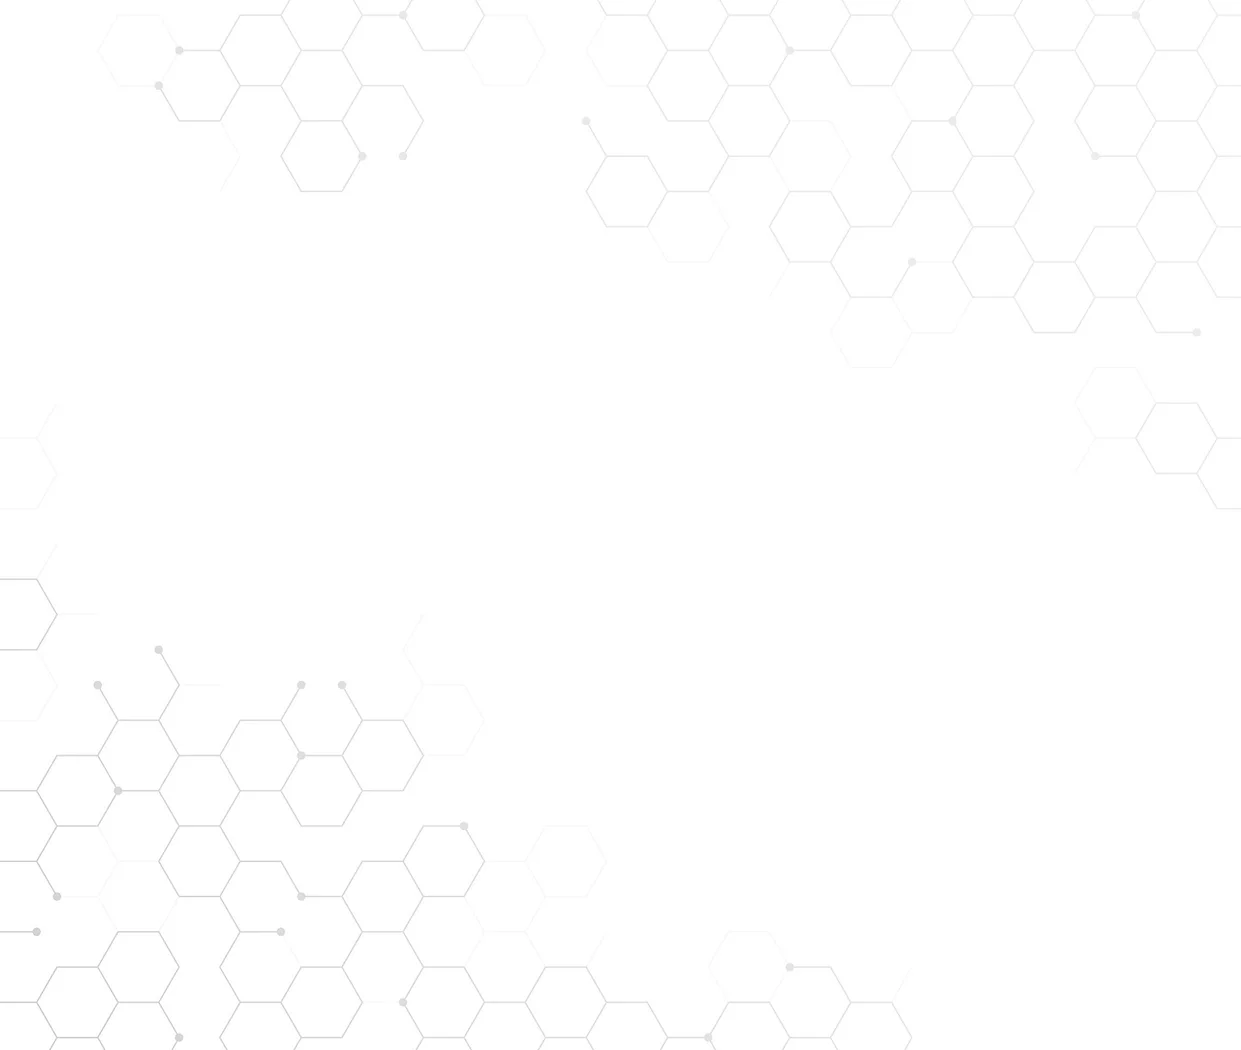
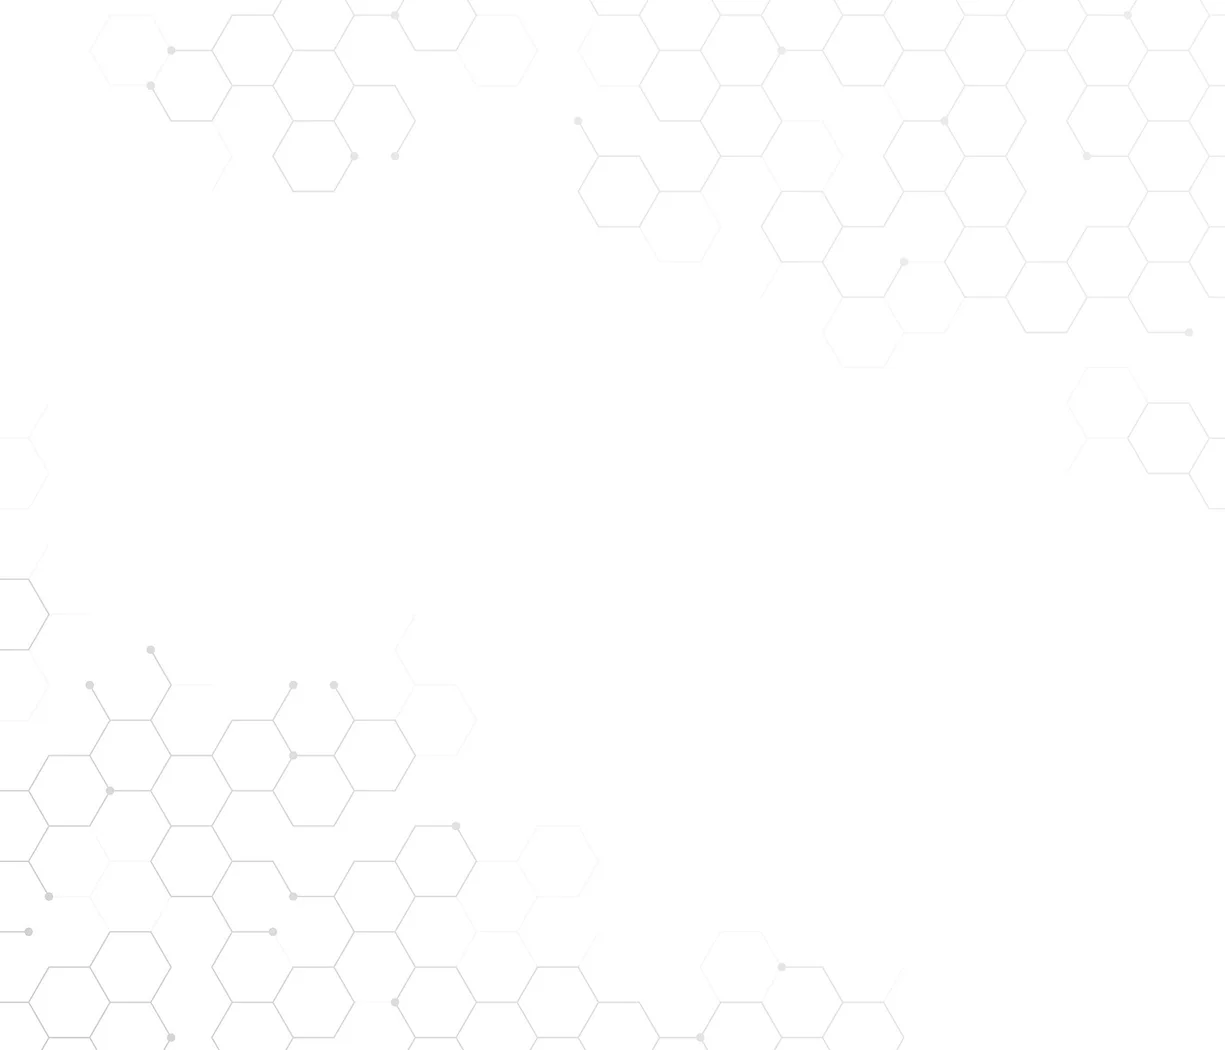
chore: initial home hero section styles

Changed region(s): [[0.1241, 0.9752, 0.1551, 1.0], [0.062, 0.64, 0.0931, 0.6705]]

diff --git a/src/Components/Home/Home.module.scss b/src/Components/Home/Home.module.scss
@@ -1,3 +1,44 @@
-.homePage {
-  
+.homePage {}
+
+.backgroundImage {
+  width: 100%;
+  height: 970px;
+  position: absolute;
+  left: 0;
+  top: 109px;
+  z-index: -1;
+  border: solid red;
+}
+
+.backgroundImage>img {
+  object-fit: contain;
+  height: 50%;
+}
+
+.backgroundImage .top {
+  position: absolute;
+  right: 0;
+  top: 0;
+  object-position: 100% 0;
+}
+
+.backgroundImage .bottom {
+  position: absolute;
+  left: 0;
+  bottom: 80px;
+  object-position: -20% 0;
+  scale: 1 1.1;
+}
+
+.backgroundImage::before {
+  content: '';
+  position: absolute;
+  bottom: 0;
+  left: 0;
+  width: 100%;
+  height: 380px;
+  background: linear-gradient(180deg,
+      rgba(0, 0, 0, 0) 0%,
+      #000000 100%);
+  z-index: 1;
 }

diff --git a/src/Components/Home/Home.jsx b/src/Components/Home/Home.jsx
@@ -1,8 +1,20 @@
-import s from "./Home.module.scss"
+import homeBgBottom from "../../Assets/home-bg-bottom.png";
+import homeBgTop from "../../Assets/home-bg-top.png";
+import s from "./Home.module.scss";
+import HomeHeroSection from "./HomeHeroSection/HomeHeroSection";
 
 const Home = () => {
   return (
-    <main className={s.homePage}>Home</main>
-  )
-}
-export default Home
+    <main className={s.homePage}>
+      <div className={s.backgroundImage}>
+        <img src={homeBgTop} className={s.top} alt="" />
+        <img src={homeBgBottom} className={s.bottom} alt="" />
+      </div>
+
+      <div className="container">
+        <HomeHeroSection />
+      </div>
+    </main>
+  );
+};
+export default Home;

diff --git a/src/Components/Header/MobileNav/MobileNav.module.scss b/src/Components/Header/MobileNav/MobileNav.module.scss
@@ -2,6 +2,7 @@
 
 .nav {
   margin-right: 170px;
+  transition: opacity 0, top 0;
 }
 
 @media (max-width: 1900px) {
@@ -26,10 +27,9 @@
     background-color: var(--white);
     padding-top: 140px;
     opacity: 0;
-    transition: opacity .3s, top 1s;
+    transition: opacity .3s .1s, top 1s;
 
     &.active {
-      transition: opacity .6s, top 1s;
       top: 0;
       opacity: 1;
     }

diff --git a/src/Components/Home/HomeHeroSection/HomeHeroSection.module.scss b/src/Components/Home/HomeHeroSection/HomeHeroSection.module.scss
@@ -1,0 +1,22 @@
+@import "src/Styles/mixins.scss";
+
+.heroSection {
+  width: 980px;
+  margin: 0 auto;
+  text-align: center;
+}
+
+.heroSection>h1 {
+  font-size: 3rem;
+  font-weight: 400;
+  line-height: 1.5em;
+  letter-spacing: .08em;
+  margin-bottom: 16px;
+}
+
+.heroSection>h2 {
+  font-size: 1.5rem;
+  font-weight: 400;
+  line-height: 1.8em;
+  letter-spacing: .05em;
+}

diff --git a/src/Components/Home/HomeHeroSection/HomeHeroSection.jsx b/src/Components/Home/HomeHeroSection/HomeHeroSection.jsx
@@ -1,0 +1,11 @@
+import s from "./HomeHeroSection.module.scss";
+
+const HomeHeroSection = () => {
+  return (
+    <div className={s.heroSection}>
+      <h1>POWERING BUSINESS GROWTH WITH AI AND DATA MANAGEMENT</h1>
+      <h2>Unlock the Power of Data with Aster Information Limited</h2>
+    </div>
+  );
+};
+export default HomeHeroSection;

diff --git a/src/Styles/index.scss b/src/Styles/index.scss
@@ -16,7 +16,8 @@ html {
 
 body {
   background-color: var(--website-bg);
-  font-family: "Montserrat", sans-serif;
+  color: var(--black);
+  font-family: Montserrat, sans-serif;
 }
 
 img {
@@ -54,6 +55,7 @@ svg {
 
 main {
   min-height: 100vh;
+  margin-top: 216px;
 }
 
 .container {

diff --git a/src/Components/Header/Header.module.scss b/src/Components/Header/Header.module.scss
@@ -3,7 +3,7 @@
 .header {
   background-color: var(--website-bg);
   width: 100%;
-  padding: 30px 0;
+  padding: 20px 0;
   position: fixed;
   top: 0;
   left: 0;
@@ -50,5 +50,6 @@
 @include small {
   .header>div>a>span {
     font-size: .8rem;
+    letter-spacing: .3em;
   }
 }
